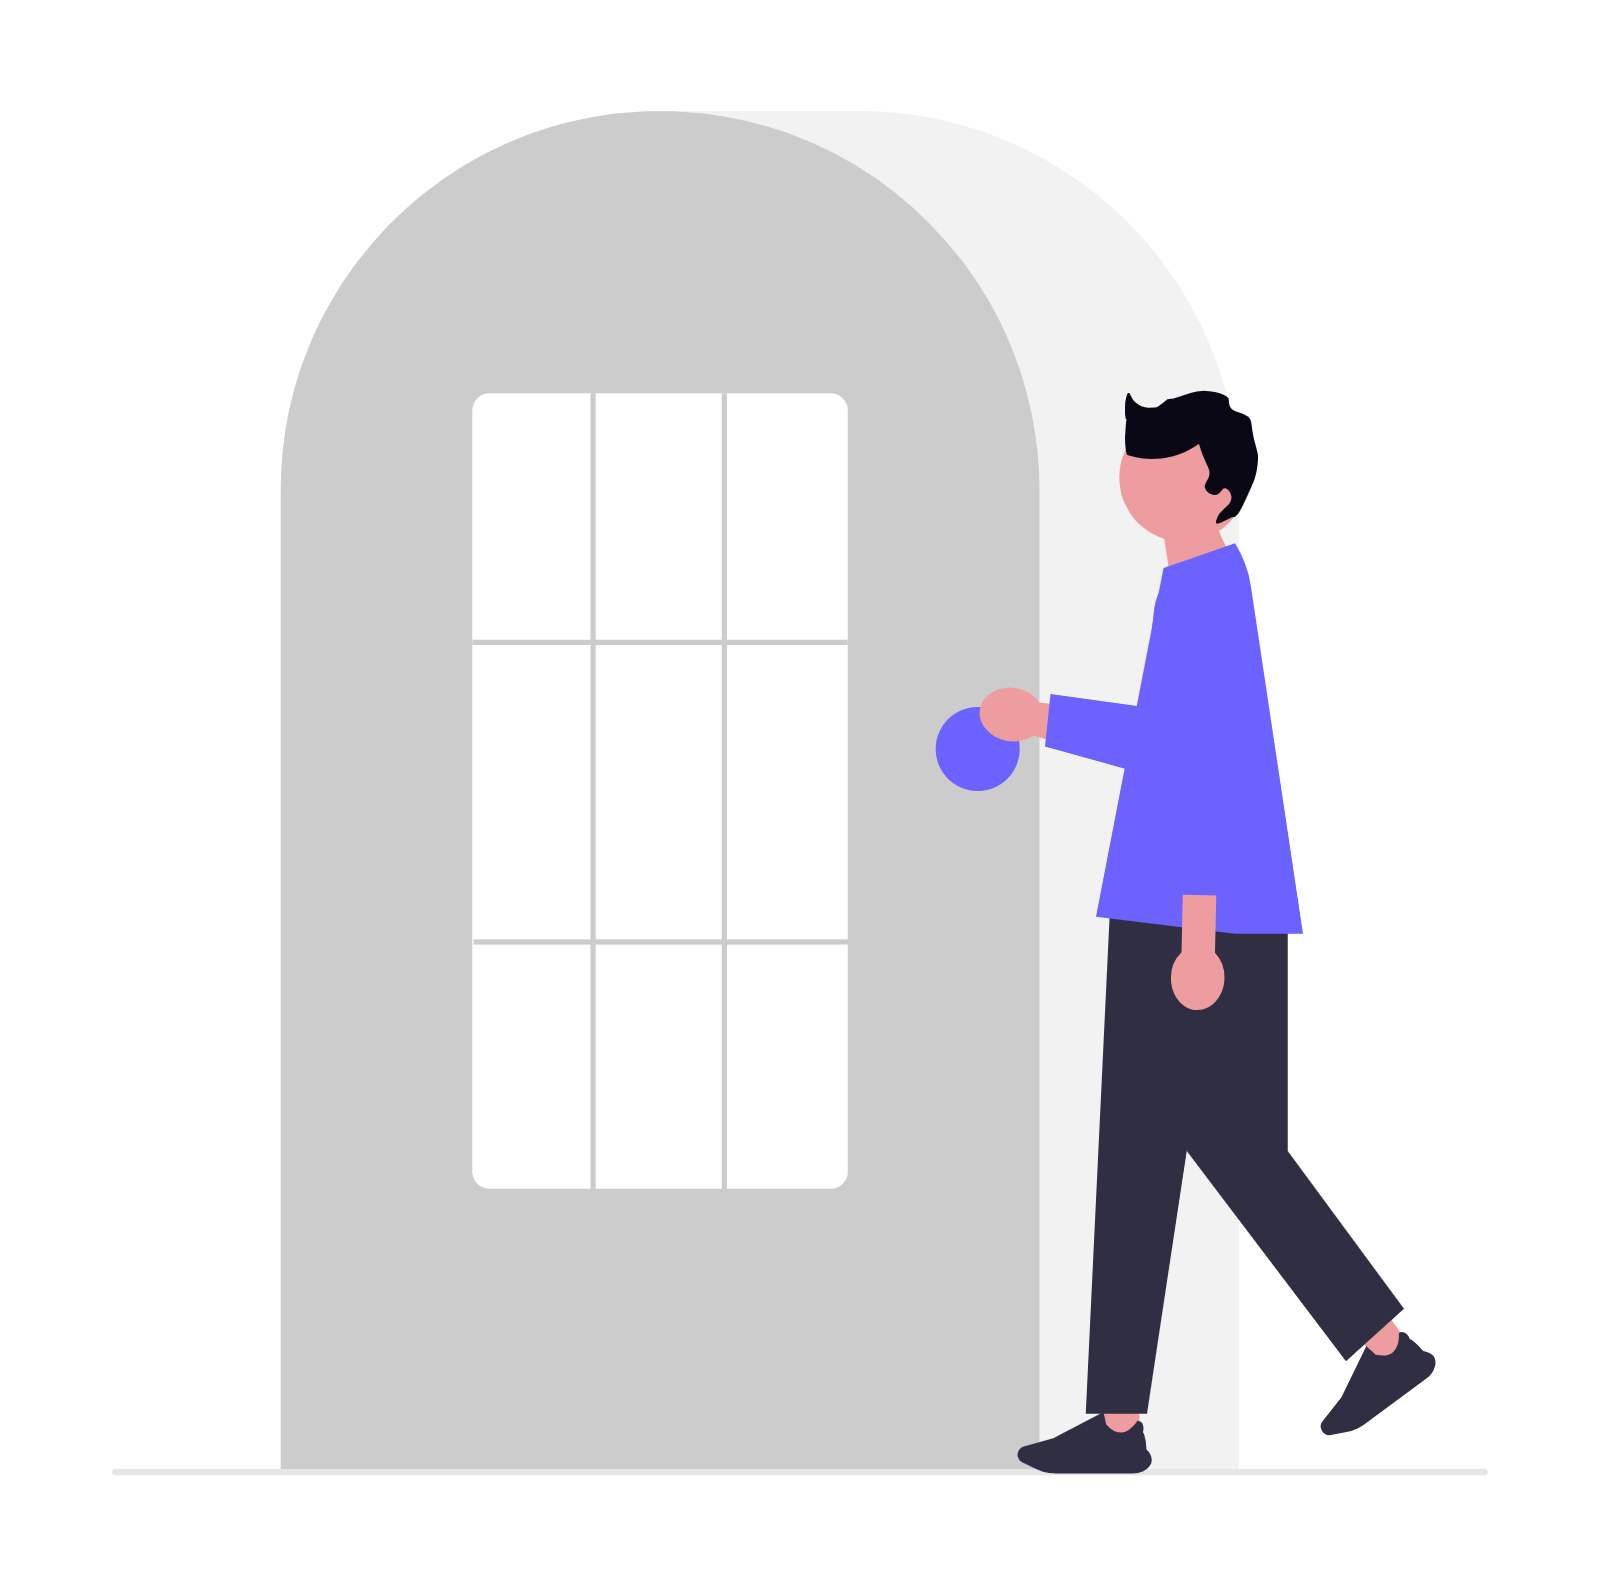
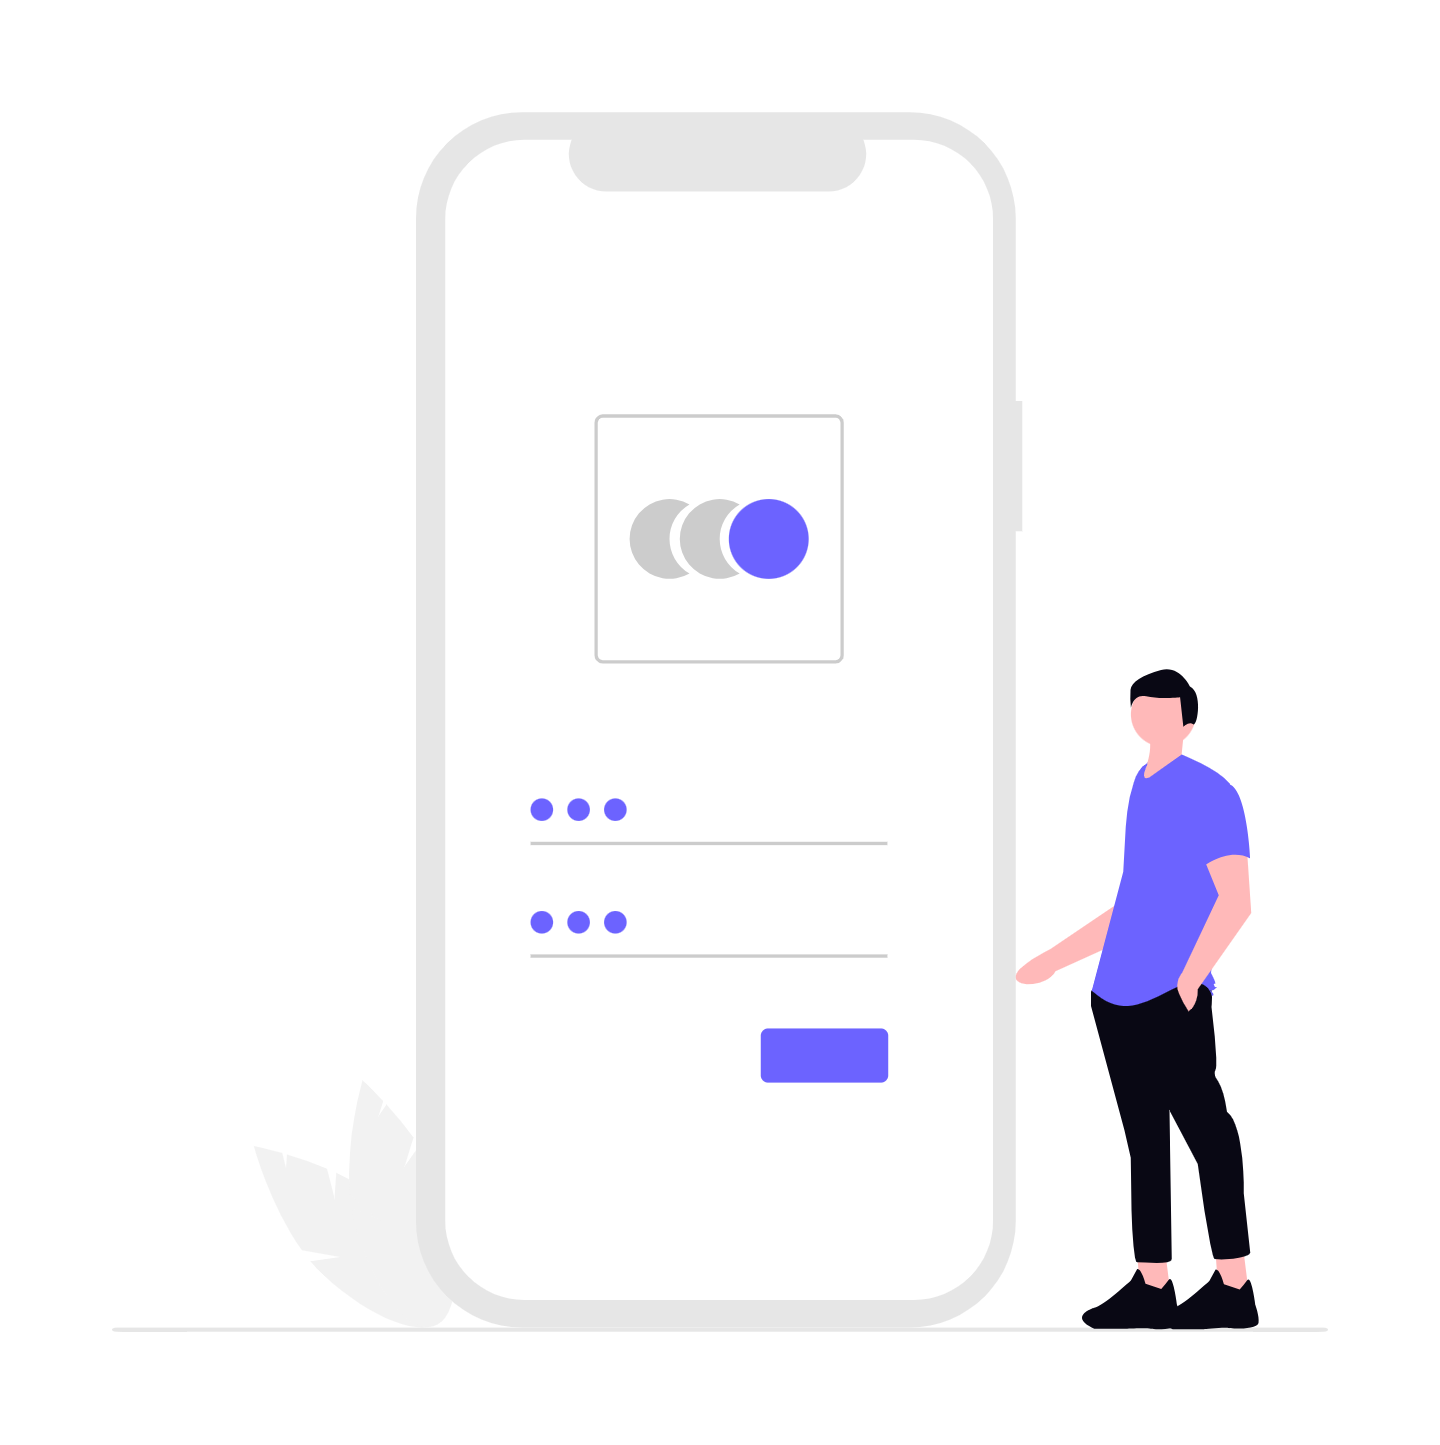
Memperbaiki halaman Login

diff --git a/lib/features/auth/login_view.dart b/lib/features/auth/login_view.dart
@@ -120,63 +120,174 @@ class _LoginViewState extends State<LoginView> {
   @override
   Widget build(BuildContext context) {
     return Scaffold(
+      backgroundColor: Colors.white,
       appBar: AppBar(
-        title: const Text("Login Gatekeeper"),
-        backgroundColor: const Color(0xFFE8E0F0),
-        foregroundColor: const Color(0xFF5B4B8A),
-        elevation: 0,
+        title: const Text(
+          "Login",
+          style: TextStyle(fontWeight: FontWeight.bold),
+        ),
+        backgroundColor: const Color(0xFF5B4B8A),
+        foregroundColor: Colors.white,
+        centerTitle: true,
+        elevation: 2,
       ),
-      body: Padding(
-        padding: const EdgeInsets.all(16.0),
-        child: Column(
-          children: [
-            TextField(
-              controller: _userController,
-              decoration: const InputDecoration(
-                labelText: "Username",
-                prefixIcon: Icon(Icons.person),
-              ),
+      body: SafeArea(
+        child: SingleChildScrollView(
+          child: Padding(
+            padding: const EdgeInsets.symmetric(
+              horizontal: 24.0,
+              vertical: 16.0,
             ),
-            const SizedBox(height: 16),
-            TextField(
-              controller: _passController,
-              obscureText: _obscurePassword, // Kontrol show/hide
-              decoration: InputDecoration(
-                labelText: "Password",
-                prefixIcon: const Icon(Icons.lock),
-                // Ikon mata untuk Show/Hide Password
-                suffixIcon: IconButton(
-                  icon: Icon(
-                    _obscurePassword ? Icons.visibility_off : Icons.visibility,
+            child: Column(
+              crossAxisAlignment: CrossAxisAlignment.stretch,
+              children: [
+                const SizedBox(height: 20),
+
+                // Gambar Login
+                Center(
+                  child: ClipRRect(
+                    borderRadius: BorderRadius.circular(16),
+                    child: Image.asset(
+                      'assets/images/login.png',
+                      height: 180,
+                      fit: BoxFit.contain,
+                    ),
                   ),
-                  onPressed: () {
-                    setState(() {
-                      _obscurePassword = !_obscurePassword;
-                    });
-                  },
                 ),
-              ),
-            ),
-            const SizedBox(height: 20),
 
-            // Tombol Login dengan kondisi disabled
-            ElevatedButton(
-              onPressed: _isLoginDisabled ? null : _handleLogin,
-              child: _isLoginDisabled
-                  ? Text("Tunggu $_countdown detik...")
-                  : const Text("Masuk"),
-            ),
+                const SizedBox(height: 24),
 
-            // Info akun untuk testing
-            const SizedBox(height: 30),
-            const Text(
-              "Akun tersedia:",
-              style: TextStyle(fontWeight: FontWeight.bold),
+                // Header Text
+                const Text(
+                  "Selamat Datang!",
+                  textAlign: TextAlign.center,
+                  style: TextStyle(
+                    fontSize: 24,
+                    fontWeight: FontWeight.bold,
+                    color: Color(0xFF5B4B8A),
+                  ),
+                ),
+                const SizedBox(height: 8),
+                const Text(
+                  "Silakan masuk untuk melanjutkan",
+                  textAlign: TextAlign.center,
+                  style: TextStyle(fontSize: 14, color: Colors.grey),
+                ),
+
+                const SizedBox(height: 32),
+
+                // Username Field
+                TextField(
+                  controller: _userController,
+                  decoration: InputDecoration(
+                    labelText: "Username",
+                    hintText: "Masukkan username",
+                    prefixIcon: const Icon(
+                      Icons.person_outline,
+                      color: Color(0xFF5B4B8A),
+                    ),
+                    border: OutlineInputBorder(
+                      borderRadius: BorderRadius.circular(12),
+                      borderSide: const BorderSide(color: Color(0xFFE8E0F0)),
+                    ),
+                    enabledBorder: OutlineInputBorder(
+                      borderRadius: BorderRadius.circular(12),
+                      borderSide: const BorderSide(color: Color(0xFFE8E0F0)),
+                    ),
+                    focusedBorder: OutlineInputBorder(
+                      borderRadius: BorderRadius.circular(12),
+                      borderSide: const BorderSide(
+                        color: Color(0xFF5B4B8A),
+                        width: 2,
+                      ),
+                    ),
+                    filled: true,
+                    fillColor: const Color(0xFFF8F6FB),
+                  ),
+                ),
+
+                const SizedBox(height: 16),
+
+                // Password Field
+                TextField(
+                  controller: _passController,
+                  obscureText: _obscurePassword,
+                  decoration: InputDecoration(
+                    labelText: "Password",
+                    hintText: "Masukkan password",
+                    prefixIcon: const Icon(
+                      Icons.lock_outline,
+                      color: Color(0xFF5B4B8A),
+                    ),
+                    suffixIcon: IconButton(
+                      icon: Icon(
+                        _obscurePassword
+                            ? Icons.visibility_off_outlined
+                            : Icons.visibility_outlined,
+                        color: const Color(0xFF5B4B8A),
+                      ),
+                      onPressed: () {
+                        setState(() {
+                          _obscurePassword = !_obscurePassword;
+                        });
+                      },
+                    ),
+                    border: OutlineInputBorder(
+                      borderRadius: BorderRadius.circular(12),
+                      borderSide: const BorderSide(color: Color(0xFFE8E0F0)),
+                    ),
+                    enabledBorder: OutlineInputBorder(
+                      borderRadius: BorderRadius.circular(12),
+                      borderSide: const BorderSide(color: Color(0xFFE8E0F0)),
+                    ),
+                    focusedBorder: OutlineInputBorder(
+                      borderRadius: BorderRadius.circular(12),
+                      borderSide: const BorderSide(
+                        color: Color(0xFF5B4B8A),
+                        width: 2,
+                      ),
+                    ),
+                    filled: true,
+                    fillColor: const Color(0xFFF8F6FB),
+                  ),
+                ),
+
+                const SizedBox(height: 24),
+
+                // Tombol Login
+                SizedBox(
+                  height: 50,
+                  child: ElevatedButton(
+                    onPressed: _isLoginDisabled ? null : _handleLogin,
+                    style: ElevatedButton.styleFrom(
+                      backgroundColor: const Color(0xFF5B4B8A),
+                      foregroundColor: Colors.white,
+                      disabledBackgroundColor: Colors.grey.shade400,
+                      shape: RoundedRectangleBorder(
+                        borderRadius: BorderRadius.circular(12),
+                      ),
+                      elevation: 2,
+                    ),
+                    child: _isLoginDisabled
+                        ? Text(
+                            "Tunggu $_countdown detik...",
+                            style: const TextStyle(
+                              fontSize: 16,
+                              fontWeight: FontWeight.w600,
+                            ),
+                          )
+                        : const Text(
+                            "Masuk",
+                            style: TextStyle(
+                              fontSize: 16,
+                              fontWeight: FontWeight.w600,
+                            ),
+                          ),
+                  ),
+                ),
+              ],
             ),
-            const Text("admin / 123"),
-            const Text("faridha / password"),
-            const Text("user1 / user123"),
-          ],
+          ),
         ),
       ),
     );

diff --git a/lib/features/logbook/counter_controller.dart b/lib/features/logbook/counter_controller.dart
@@ -92,18 +92,18 @@ class CounterController {
   Future<void> increment() async {
     _counter += _step;
     _addHistory("$_username menambahkan nilai sebesar $_step");
-    await saveAllData(); // Auto-save setelah perubahan
+    await saveAllData(); // Auto save setelah perubahan
   }
 
   Future<void> decrement() async {
     _counter -= _step;
     _addHistory("$_username mengurangi nilai sebesar $_step");
-    await saveAllData(); // Auto-save setelah perubahan
+    await saveAllData(); // Auto save setelah perubahan
   }
 
   Future<void> reset() async {
     _counter = 0;
     _addHistory("$_username mereset counter ke 0");
-    await saveAllData(); // Auto-save setelah perubahan
+    await saveAllData(); // Auto save setelah perubahan
   }
 }

diff --git a/lib/features/onboarding/onboarding_view.dart b/lib/features/onboarding/onboarding_view.dart
@@ -27,7 +27,7 @@ class _OnboardingViewState extends State<OnboardingView> {
           'Catat setiap aktivitas Anda dengan mudah.\nTambah, kurangi, atau reset counter sesuai kebutuhan.',
     },
     {
-      'image': 'assets/images/login.png',
+      'image': 'assets/images/masuk.png',
       'title': 'Mulai Sekarang',
       'description':
           'Login dengan akun Anda untuk memulai.\nSemua data tersimpan aman dan dapat diakses kapan saja.',
